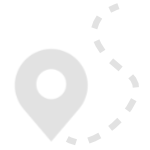
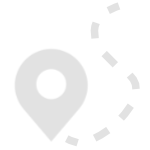
library

diff --git a/src/view/sortComponents/filterByTypeComponent.js b/src/view/sortComponents/filterByTypeComponent.js
@@ -1,22 +1,27 @@
 import React, { useState, useEffect, Component } from "react";
-import placeholder from "../../pics/loreFeather.png";
+import placeholder from "../../pics/animateSplash.png";
 import encSwords from "../../pics/encounterSwords.png";
+import encSwords2 from "../../pics/encounterSwords2.png";
 import imgSquareIco from "../../pics/imgSquareIco.png";
+import imgSquareIco2 from "../../pics/imgSquareIco2.png";
 import campaignBook from "../../pics/campaignBook.png";
+import campaignBook2 from "../../pics/campaignBook2.png";
 import mapPin from "../../pics/mapPin.png";
+import mapPin2 from "../../pics/mapPin2.png";
 import loreFeather from "../../pics/loreFeather.png";
+import loreFeather2 from "../../pics/loreFeather2.png";
 
 export default class FilterByTypeComponent extends Component {
   constructor(props) {
     super(props);
     this.state = {
-      currentSel: this.props.app.state?.searchState
+      currentSel: undefined
     };
 
   }
 
   componentDidMount() {
-    this.setState({ currentSel: this.props.app.state?.searchState })
+    this.setState({ currentSel: undefined })
   }
 
   render() {
@@ -44,6 +49,15 @@ export default class FilterByTypeComponent extends Component {
       
     };
 
+    const typeIcons2 = {
+      Campaign: campaignBook2,
+      Map: mapPin2,
+      Lore: loreFeather2,
+      Encounter: encSwords2,
+      Image: imgSquareIco2,
+      
+    };
+
     return (
       <div style={{ width: "fit-content", color: styles.colors.colorWhite + "99", userSelect: "none" }}>
 
@@ -62,12 +76,28 @@ export default class FilterByTypeComponent extends Component {
               border: (type + "s") === this.state.currentSel ? "2px solid " + styles.colors.color3 + "44" : "2px solid " + styles.colors.color2 + "1e",
             }}>
 
-            <img src={typeIcons[type] || placeholder} alt={"ico"} style={{ width: "fit-content", alignSelf: "center", justifySelf: "center", width: "32px", marginBottom:"6px" }} />
+            <img src={(type + "s") === this.state.currentSel ?typeIcons2[type]:typeIcons[type] || placeholder} alt={"ico"} style={{ width: "fit-content", alignSelf: "center", justifySelf: "center", width: "32px", marginBottom:"6px" }} />
             <div style={{ fontFamily: "inria", fontSize: "1.02rem", color: styles.colors.colorWhite + "e8", width: "fit-content", alignSelf: "center", justifySelf: "center", }}>{type !== "Lore" ? type + "s" : type}
             </div>
           </div>
           )}
+          <div
+            className="hover-img"
+            onClick={() => {
+              this.setState({ currentSel: undefined })
+              dispatch({ searchState: "", filter:"" })
+            }} style={{
+              ...styling,
+              background: this.state.currentSel === undefined ? styles.colors.color4 + "30" : "",
+              border: this.state.currentSel === undefined ? "2px solid " + styles.colors.color3 + "44" : "2px solid " + styles.colors.color2 + "1e",
+            }}>
+
+            <img className={this.state.currentSel === undefined ?"vault-door-handle-fast":"vault-door-handle-stop"} src={placeholder} alt={"ico"} style={{ width: "fit-content", alignSelf: "center", justifySelf: "center", width: "32px", marginBottom:"6px" }} />
+            <div style={{ fontFamily: "inria", fontSize: "1.02rem", color: styles.colors.colorWhite + "e8", width: "fit-content", alignSelf: "center", justifySelf: "center", }}>All
+            </div>
+          </div>
         </div>
+        
       </div>
     );
   }

diff --git a/src/view/galleryViewer.js b/src/view/galleryViewer.js
@@ -67,10 +67,10 @@ export default class GalleryViewer extends Component {
                      
                
                 />
-  {state.currentLore!==undefined &&
+
                 <div className='hover-btn' onClick={()=>{dispatch({popupSwitch:"seeLibrary"})}} style={{...styles.buttons.buttonAdd, marginTop:"25px", backgroundColor:styles.colors.colorBlack+"99",
                       paddingLeft:"29px",  paddingRight:"29px", alignSelf:"flex-start", justifyItems:"center",  height:"36px",
-                      borderRadius:"9px", fontSize:"21px",}}>+ From Library</div>}
+                      borderRadius:"9px", fontSize:"21px",}}>+ From Library</div>
 
         </div>
 

diff --git a/src/App.css b/src/App.css
@@ -632,3 +632,28 @@ input {
 .vault-door-handle {
   animation: spinAndWiggle 3.4s cubic-bezier(0.42, 0, 0.58, 1) infinite;
 }
+
+.vault-door-handle-stop {
+  animation: spinAndWiggle 3.4s cubic-bezier(0.42, 0, 0.58, 1) forwards;
+}
+
+@keyframes spin360 {
+  0% {
+    transform: rotate(0deg);
+  }
+  94% {
+    transform: rotate(900deg);
+  }
+
+  97% {
+    transform: rotate(922deg);
+  }
+
+  100% {
+    transform: rotate(900deg);
+  }
+}
+
+.vault-door-handle-fast {
+  animation: spin360 3s cubic-bezier(.17,.67,.88,.86) forwards;
+}

diff --git a/src/view/pages/libraryCard.js b/src/view/pages/libraryCard.js
@@ -144,7 +144,7 @@ class MainContent extends Component {
     // console.log(dButton)
 
     return (
-      <div style={{ width: "100%", display: "flex", flexDirection: "column", minHeight: "71vh", minWidth:"70vw", 
+      <div style={{ width: "100%", display: "flex", flexDirection: "column", minHeight: "71vh", minWidth:"71vw", 
       padding: "22px", }}>
         {/* <div style={{color:styles.colors.color3, width:"800px", textAlign:"center"}}>~ Coming Soon ~ </div> */}
 
